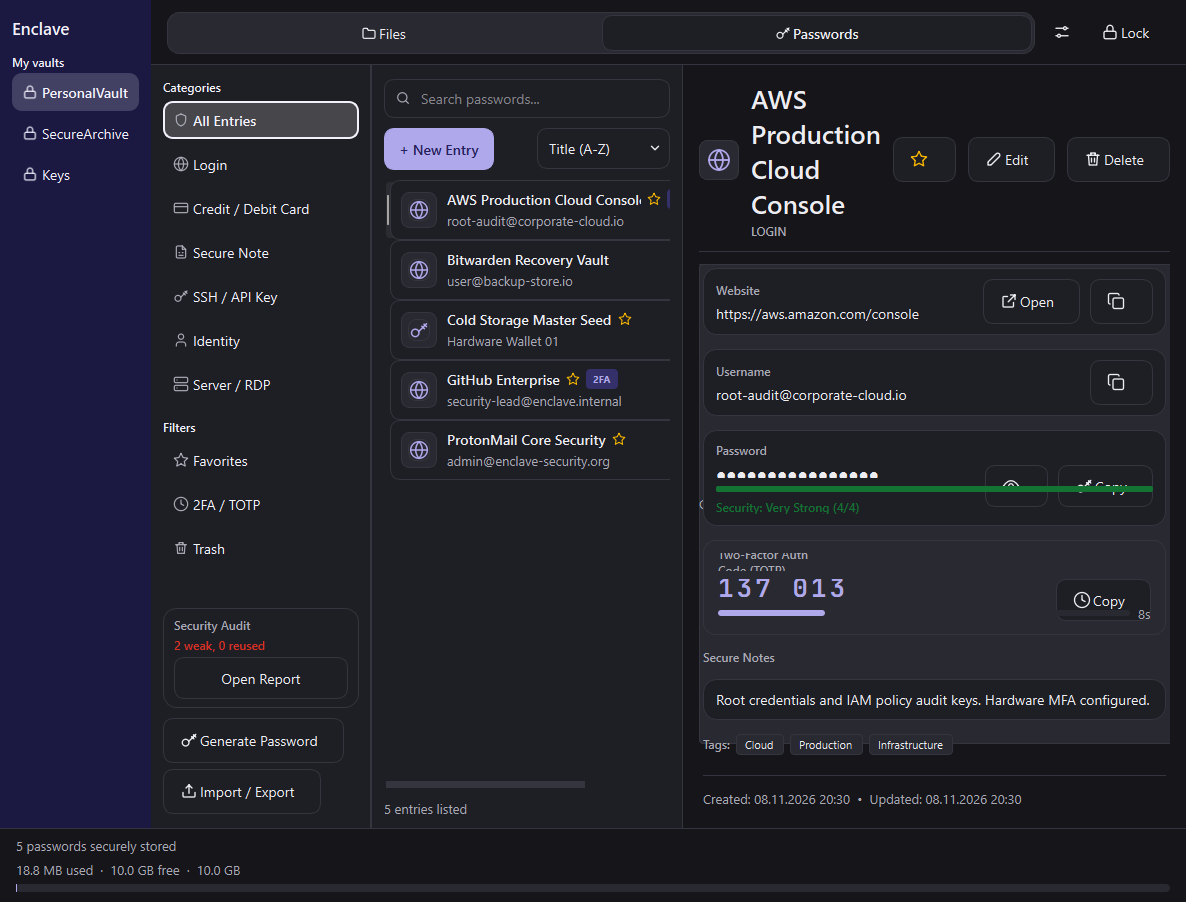
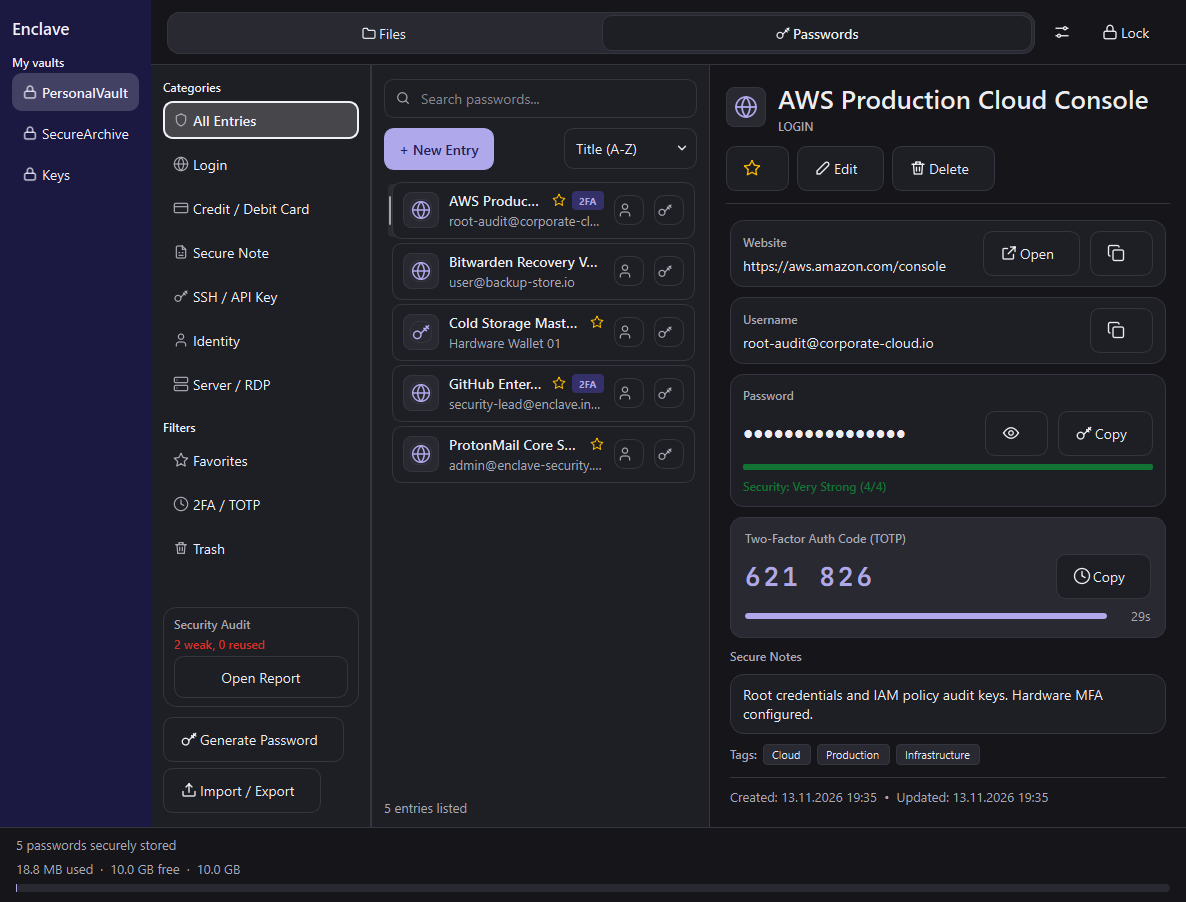
fix(ui): resolve overflow, clipping and misalignment in password manager and dialogs, refresh screenshots
- Elide long titles/subtitles instead of wrapping (ElidedLabel)
- Move entry action buttons below header, remove list horizontal scroll
- Remove stale field widgets immediately to stop overlapping cards
- Grow dialogs to fit content in DialogBase.fit_to_screen
- Regenerate README screenshots

diff --git a/enclave_app/pwd_view.py b/enclave_app/pwd_view.py
@@ -20,7 +20,7 @@ from PyQt6.QtWidgets import (
 
 from . import icons
 from .common import (
-    SearchBox, Theme, button, confirm, copy_secret, format_date,
+    ElidedLabel, SearchBox, Theme, button, confirm, copy_secret, format_date,
     horizontal_rule, label, tool_button
 )
 from .i18n import tr
@@ -65,9 +65,9 @@ class EntryListItemWidget(QFrame):
 
         top_row = QHBoxLayout()
         top_row.setSpacing(6)
-        title_lbl = label(entry.title or tr("(Başlıksız)"), wrap=False)
+        title_lbl = ElidedLabel(entry.title or tr("(Başlıksız)"))
         title_lbl.setStyleSheet("font-weight: 600; font-size: 14px;")
-        top_row.addWidget(title_lbl)
+        top_row.addWidget(title_lbl, 1)
 
         if entry.favorite:
             star_lbl = QLabel()
@@ -82,7 +82,6 @@ class EntryListItemWidget(QFrame):
             )
             top_row.addWidget(totp_badge)
 
-        top_row.addStretch(1)
         center.addLayout(top_row)
 
         subtitle_text = entry.username
@@ -93,7 +92,7 @@ class EntryListItemWidget(QFrame):
         elif not subtitle_text:
             subtitle_text = tr(TYPE_LABELS.get(entry.type, ""))
 
-        sub_lbl = label(subtitle_text or "—", "Meta", wrap=False)
+        sub_lbl = ElidedLabel(subtitle_text or "—", "Meta")
         center.addWidget(sub_lbl)
         layout.addLayout(center, 1)
 
@@ -103,7 +102,8 @@ class EntryListItemWidget(QFrame):
                 lambda: self._copy_text(entry.username, tr("Kullanıcı adı kopyalandı")),
                 tr("Kullanıcı Adını Kopyala")
             )
-            user_btn.setFixedSize(28, 28)
+            user_btn.setFixedSize(30, 30)
+            user_btn.setStyleSheet("padding: 0px;")
             layout.addWidget(user_btn)
 
         if entry.password:
@@ -112,7 +112,8 @@ class EntryListItemWidget(QFrame):
                 lambda: self._copy_pwd(entry.password),
                 tr("Parolayı Kopyala (30s)")
             )
-            pwd_btn.setFixedSize(28, 28)
+            pwd_btn.setFixedSize(30, 30)
+            pwd_btn.setStyleSheet("padding: 0px;")
             layout.addWidget(pwd_btn)
 
     def _copy_text(self, text: str, msg: str) -> None:
@@ -181,11 +182,13 @@ class PasswordInspector(QWidget):
 
         head_text_col = QVBoxLayout()
         head_text_col.setSpacing(2)
-        self.head_title = label("", "Title")
-        self.head_type = label("", "Eyebrow")
+        self.head_title = ElidedLabel("", "Title")
+        self.head_type = ElidedLabel("", "Eyebrow")
         head_text_col.addWidget(self.head_title)
         head_text_col.addWidget(self.head_type)
         top_box.addLayout(head_text_col, 1)
+
+        det_l.addLayout(top_box)
 
         self.fav_btn = tool_button("", self.theme.icon("star"), self._on_fav_click, tr("Favorilere Ekle / Çıkar"))
         self.edit_btn = tool_button(tr("Düzenle"), self.theme.icon("edit"), self._on_edit_click, tr("Kaydı Düzenle"))
@@ -194,11 +197,13 @@ class PasswordInspector(QWidget):
         self.purge_btn.setObjectName("Danger")
         self.purge_btn.hide()
 
-        top_box.addWidget(self.fav_btn)
-        top_box.addWidget(self.edit_btn)
-        top_box.addWidget(self.del_btn)
-        top_box.addWidget(self.purge_btn)
-        det_l.addLayout(top_box)
+        action_row = QHBoxLayout()
+        action_row.setSpacing(8)
+        for _b in (self.fav_btn, self.edit_btn, self.del_btn, self.purge_btn):
+            _b.setSizePolicy(QSizePolicy.Policy.Fixed, QSizePolicy.Policy.Fixed)
+            action_row.addWidget(_b)
+        action_row.addStretch(1)
+        det_l.addLayout(action_row)
 
         det_l.addWidget(horizontal_rule())
 
@@ -208,7 +213,7 @@ class PasswordInspector(QWidget):
         content = QWidget()
         self.fields_layout = QVBoxLayout(content)
         self.fields_layout.setContentsMargins(4, 4, 4, 4)
-        self.fields_layout.setSpacing(14)
+        self.fields_layout.setSpacing(10)
         scroll.setWidget(content)
         det_l.addWidget(scroll, 1)
 
@@ -254,15 +259,20 @@ class PasswordInspector(QWidget):
             self._totp_timer.start()
 
     def _clear_fields(self) -> None:
-        while self.fields_layout.count():
-            item = self.fields_layout.takeAt(0)
-            if item.widget():
-                item.widget().deleteLater()
-            elif item.layout():
-                while item.layout().count():
-                    sub = item.layout().takeAt(0)
-                    if sub.widget():
-                        sub.widget().deleteLater()
+        def purge(layout) -> None:
+            while layout.count():
+                item = layout.takeAt(0)
+                widget = item.widget()
+                if widget is not None:
+                    widget.hide()
+                    widget.setParent(None)
+                    widget.deleteLater()
+                elif item.layout() is not None:
+                    purge(item.layout())
+        purge(self.fields_layout)
+        for attr in ("pwd_label", "eye_btn", "totp_lbl", "totp_bar", "totp_sec_lbl", "totp_copy_btn"):
+            if hasattr(self, attr):
+                delattr(self, attr)
 
     def _populate_fields(self, entry: PasswordEntry) -> None:
         p = self.theme.palette
@@ -321,7 +331,7 @@ class PasswordInspector(QWidget):
             tag_box.addStretch(1)
             self.fields_layout.addLayout(tag_box)
 
-        self.fields_layout.addSpacing(6)
+        self.fields_layout.addSpacing(2)
         self.fields_layout.addWidget(horizontal_rule())
         meta_row = QHBoxLayout()
         created_str = format_date(entry.created_at)
@@ -443,7 +453,7 @@ class PasswordInspector(QWidget):
         c_l.setSpacing(8)
 
         head = QHBoxLayout()
-        head.addWidget(label(tr("İki Adımlı Doğrulama Kodu (TOTP)"), "Eyebrow"))
+        head.addWidget(label(tr("İki Adımlı Doğrulama Kodu (TOTP)"), "Eyebrow", wrap=False))
         head.addStretch(1)
         c_l.addLayout(head)
 
@@ -675,6 +685,9 @@ class PasswordView(QWidget):
 
         self.list_widget = QListWidget()
         self.list_widget.setSelectionMode(QListWidget.SelectionMode.SingleSelection)
+        self.list_widget.setHorizontalScrollBarPolicy(Qt.ScrollBarPolicy.ScrollBarAlwaysOff)
+        self.list_widget.setVerticalScrollMode(QListWidget.ScrollMode.ScrollPerPixel)
+        self.list_widget.setSpacing(2)
         self.list_widget.setContextMenuPolicy(Qt.ContextMenuPolicy.CustomContextMenu)
         self.list_widget.customContextMenuRequested.connect(self._show_list_context_menu)
         self.list_widget.currentItemChanged.connect(self._on_item_selected)
@@ -751,7 +764,7 @@ class PasswordView(QWidget):
         for entry in entries:
             item = QListWidgetItem()
             card = EntryListItemWidget(entry, self.theme)
-            item.setSizeHint(card.sizeHint())
+            item.setSizeHint(QSize(0, card.sizeHint().height()))
             item.setData(Qt.ItemDataRole.UserRole, entry.id)
             self.list_widget.addItem(item)
             self.list_widget.setItemWidget(item, card)

diff --git a/enclave_app/common.py b/enclave_app/common.py
@@ -8,7 +8,7 @@ from pathlib import Path
 from typing import Any, Callable, Optional
 
 from PyQt6.QtCore import QEvent, QMimeData, QPointF, QRectF, QThread, QTimer, Qt, pyqtSignal
-from PyQt6.QtGui import QColor, QIcon, QPainter, QPen, QPixmap
+from PyQt6.QtGui import QColor, QFontMetrics, QIcon, QPainter, QPen, QPixmap
 from PyQt6.QtWidgets import (
     QApplication, QFrame, QHBoxLayout, QLabel, QLineEdit, QMessageBox, QProgressBar, QPushButton, QSizePolicy, QToolButton,
     QVBoxLayout, QWidget,
@@ -97,6 +97,40 @@ def label(text: str = "", name: str = "", wrap: bool = True) -> QLabel:
         widget.setObjectName(name)
     widget.setWordWrap(wrap)
     return widget
+
+class ElidedLabel(QLabel):
+    """Tek satırlık, sığmayınca sonuna '…' koyan ve yerleşimi genişletmeyen etiket."""
+
+    def __init__(self, text: str = "", name: str = "", parent: Optional[QWidget] = None):
+        super().__init__(parent)
+        if name:
+            self.setObjectName(name)
+        self._full = ""
+        self.setSizePolicy(QSizePolicy.Policy.Ignored, QSizePolicy.Policy.Preferred)
+        self.setMinimumWidth(0)
+        self.setText(text)
+
+    def setText(self, text: str) -> None:
+        self._full = text
+        self.setToolTip(text)
+        self._apply()
+
+    def text(self) -> str:
+        return self._full
+
+    def minimumSizeHint(self):
+        hint = super().minimumSizeHint()
+        hint.setWidth(0)
+        return hint
+
+    def resizeEvent(self, event) -> None:
+        super().resizeEvent(event)
+        self._apply()
+
+    def _apply(self) -> None:
+        width = max(0, self.width() - 2)
+        shown = QFontMetrics(self.font()).elidedText(self._full, Qt.TextElideMode.ElideRight, width) if width else self._full
+        QLabel.setText(self, shown)
 
 def button(text: str, name: str = "", on_click: Optional[Callable] = None, icon_: Optional[QIcon] = None) -> QPushButton:
     widget = QPushButton(text)

diff --git a/generate_screenshots.py b/generate_screenshots.py
@@ -229,8 +229,11 @@ try:
     # Select AWS entry
     ws.pwd_view.list_widget.setCurrentRow(0)
     ws.pwd_view._on_item_selected(ws.pwd_view.list_widget.currentItem(), None)
+    for _ in range(4):
+        app.processEvents()
+    ws.repaint()
     app.processEvents()
-    
+
     pix03 = ws.grab()
     pix03.save(str(out_dir / "03_password_manager_en.png"))
     print("Saved 03_password_manager_en.png")
@@ -239,7 +242,6 @@ try:
     pwd_gen = PasswordGeneratorDialog(theme)
     pwd_gen.result_edit.setText("kP9#vX2$mQ8@wL5&zR")
     pwd_gen.strength_lbl.setText("Password Strength: Strong (4/4)")
-    pwd_gen.resize(540, 520)
     pwd_gen.show()
     app.processEvents()
     
@@ -250,7 +252,6 @@ try:
 
     print("[5/6] Generating 05_security_audit_en.png...")
     audit = HealthAuditDialog(theme, store)
-    audit.resize(640, 600)
     audit.show()
     app.processEvents()
     
@@ -262,7 +263,6 @@ try:
     print("[6/6] Generating 06_settings_theme_en.png...")
     settings = SettingsDialog(theme, session)
     settings.tabs.setCurrentIndex(0)
-    settings.resize(800, 760)
     settings.show()
     app.processEvents()
     

diff --git a/enclave_app/dialogs.py b/enclave_app/dialogs.py
@@ -90,7 +90,15 @@ class DialogBase(QDialog):
     def fit_to_screen(self, width: int, height: int) -> None:
         screen = self.screen().availableGeometry() if self.screen() else None
         if screen:
-            width, height = min(width, screen.width() - 40), min(height, screen.height() - 60)
+            width = min(width, screen.width() - 40)
+        # İçerik sığmıyorsa pencereyi içeriğe göre büyüt (ekran sınırına kadar)
+        lay = self.body
+        need = lay.totalHeightForWidth(width) if lay.hasHeightForWidth() else lay.sizeHint().height()
+        need = max(need, lay.sizeHint().height())
+        chrome = self.status.sizeHint().height() + self.footer.sizeHint().height()
+        height = max(height, need + chrome + 4)
+        if screen:
+            height = min(height, screen.height() - 60)
         self.resize(width, height)
 
 class LoaderItemDelegate(QStyledItemDelegate):
